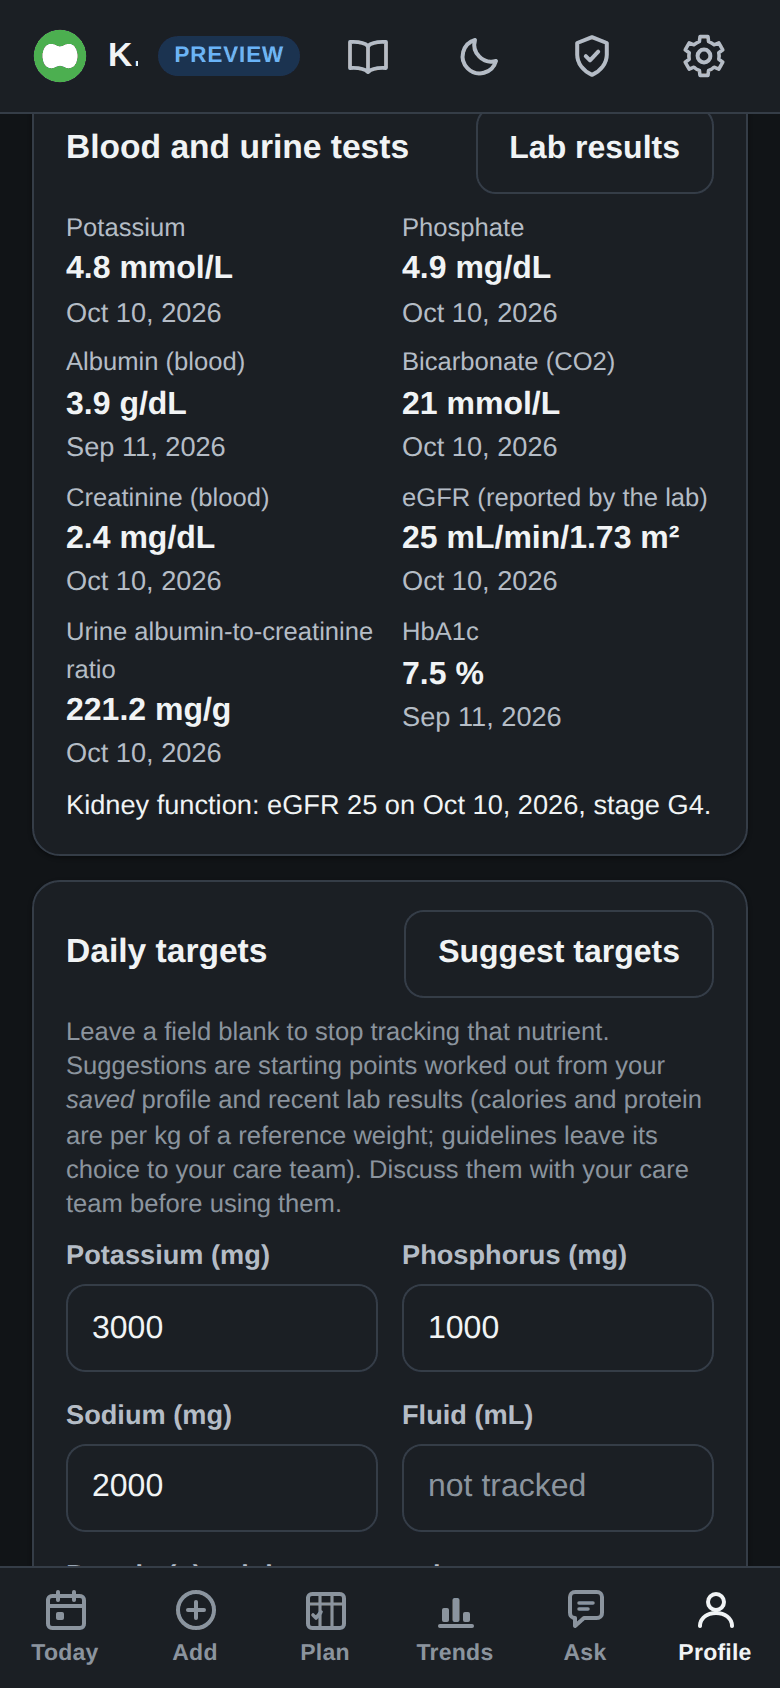
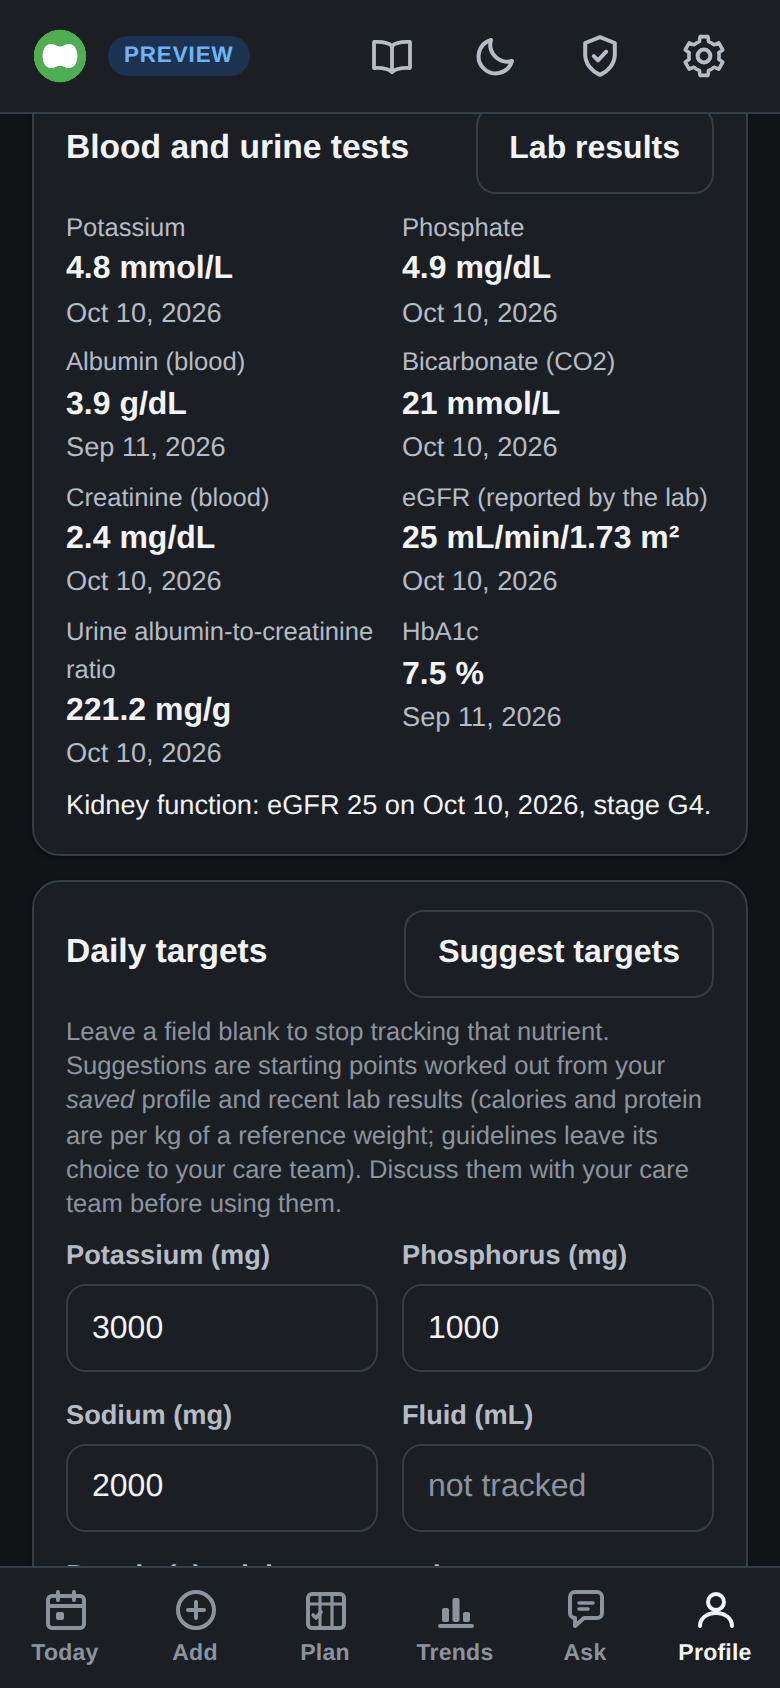
WIP(visual-qa): links inside a sentence, warnings in sheets; README screenshots taken again
Claude-Session: https://claude.ai/code/session_01GAjMcLnXyn3asCMuzVpjQG

diff --git a/app/static/css/touch.css b/app/static/css/touch.css
@@ -13,7 +13,7 @@
      instead of being pushed to the right edge. */
   .learn-more { display: inline-block; box-sizing: border-box; min-height: var(--tap); padding: 12px 0; }
   /* After a warning or a flag the link takes its own line: inline, its 44 px box would push the lines of the text above it apart. */
-  .alert .learn-more, .body-flag .learn-more, .sym-flag .learn-more { display: block; width: fit-content; margin-top: 0; }
+  .alert .learn-more, .warning .learn-more, .body-flag .learn-more, .sym-flag .learn-more { display: block; width: fit-content; margin-top: 0; }
   .details-card > summary, .inline-details > summary { min-height: var(--tap); display: flex; align-items: center; padding: 4px 0; }
   .check input { margin-top: 12px; }
   .check .check-text { padding-top: 11px; }

diff --git a/app/static/js/views/guidance.js b/app/static/js/views/guidance.js
@@ -204,7 +204,7 @@
     }
     const saved = savedText(targets.profile_updated_at);
     const lead = saved ? `Using the targets in your profile, saved ${saved}` : 'Using the targets in your profile';
-    const open = linkBtn('Check them in Profile', () => { if (beforeLeave) beforeLeave(); router.show('profile'); });
+    const open = linkBtn('Check them in Profile', () => { if (beforeLeave) beforeLeave(); router.show('profile'); }, { class: 'link-btn inline' }); // in the sentence, so not a 44 px box
     return h('p', { class: 'hint g-targets tabular' }, `${lead}${parts.length ? `: ${parts.join(' · ')}.` : '.'} `, open);
   }
   function timeText(d) { return d.toLocaleTimeString('en-US', { hour: 'numeric', minute: '2-digit' }); }

diff --git a/app/static/css/settings.css b/app/static/css/settings.css
@@ -128,3 +128,5 @@
 .import-title { margin: 0; font-size: 1rem; }
 .import-title:focus { outline: none; }
 .import-sub { font-weight: 600; }
+/* "How to make the shortcut" opens a sentence: inline, so a 44 px box does not push its lines apart (as in the Ask answers). */
+#set-push-recipe .learn-more { display: inline; min-height: 0; margin: 0; padding: 0; }

diff --git a/tests/test_layout_ui.py b/tests/test_layout_ui.py
@@ -88,8 +88,10 @@ def test_a_handbook_link_stays_at_the_end_of_its_words_and_beside_its_arrow() ->
     declarations = rule(phone, ".learn-more")
     assert "display: inline-block" in declarations and "min-height: var(--tap)" in declarations
     assert "inline-flex" not in declarations
-    own_line = rule(phone, ".alert .learn-more, .body-flag .learn-more, .sym-flag .learn-more")
+    own_line = rule(phone, ".alert .learn-more, .warning .learn-more, .body-flag .learn-more, .sym-flag .learn-more")
     assert "display: block" in own_line and "width: fit-content" in own_line
+    inline = rule(SETTINGS_CSS, "#set-push-recipe .learn-more")  # "How to make the shortcut — the handbook has the steps ..."
+    assert "display: inline" in inline and "min-height: 0" in inline
     # the arrow is joined to the last word by a no-break space
     assert r'content: "\00a0\2197"' in BASE and r'content: " \2197"' not in BASE
 
@@ -144,6 +146,8 @@ def test_a_link_inside_a_sentence_is_an_inline_link_not_a_44_px_box() -> None:
     assert "class: 'link-btn inline'" in TODAY_JS.split("profile-choose-note")[1].split("'Choose them in Profile'")[0]
     assert "class: 'link-btn inline', type: 'button', id: 'body-open-settings'" in BODY_JS
     assert "display: inline" in block(PROFILE_CSS, "@media (pointer: coarse), (max-width: 719.98px) {\n  .why > summary")
+    guidance = read("js", "views", "guidance.js")  # "Using the targets in your profile, saved ...: potassium 3,000 mg ... Check them in Profile"
+    assert re.search(r"linkBtn\('Check them in Profile'.*\{ class: 'link-btn inline' \}\)", guidance)
 
 
 def test_two_boxes_side_by_side_line_up_in_settings_too() -> None:

diff --git a/docs/dev/progress/visual-qa.md b/docs/dev/progress/visual-qa.md
@@ -1,17 +1,18 @@
-# visual-qa: a look at every screen (Status: in progress)
+# visual-qa: a look at every screen (Status: in progress, checks running)
 
 Task: build the demo, drive it with Playwright, look at every screen at 375x812 and 1280x800 in light and dark, fix the small
-layout bugs, report the rest. Screenshots stay outside the repository.
+layout bugs, report the rest. Screenshots stay outside the repository (the four README ones are the exception: see below).
 
 ## How to reproduce
 
 * Build: `python scripts/build_preview.py --pages <tmpdir>`, serve it (`python -m http.server` in that folder, or the helpers in
   `tools/e2e/readme_shots.py`), drive it with Playwright (`executable_path=khserver.chromium_executable()`, `--no-sandbox`).
-* My scratch scripts and screenshots are in the session scratchpad (`.../scratchpad/vq/*.py`, `.../scratchpad/vqshots*/`). They are
+* My scratch scripts and screenshots are in the session scratchpad (`.../scratchpad/vq/*.py`, `.../scratchpad/final/`). They are
   not in the repository. The audit script flags sideways scroll, text over text, controls over controls, clipped text and SVG text
-  that overlaps.
-* The checks that stay: `tests/test_layout_ui.py` (source checks) and probes 7 and 8 in `tools/e2e/sandbox.py` (header at 19
-  widths, Plan badges).
+  that overlaps; it reports false positives where a sheet body scrolls under its header and footer.
+* The checks that stay: `tests/test_layout_ui.py` (source checks) and probes 7 and 8 in `tools/e2e/sandbox.py` (the header at 19
+  widths with every optional part on and off, the Plan week's badges). Run against the build before the fixes, the two probes
+  report the cut name, the overlaps and the sideways scroll; against the fixed build they report nothing.
 
 ## Found and fixed
 
@@ -19,26 +20,39 @@ layout bugs, report the rest. Screenshots stay outside the repository.
   aloud); the logo and pill keep their room. `base.css`.
 * Header, 720-880 px: with the Preview pill, the admin shield and the Ask tab the six tab words and four icons ran past the window
   (the page scrolled sideways). Only the open tab keeps its word there. `base.css`.
-* Header, 960 px and wider: the Preview pill sat under the Today tab (same cause). Fixed by the same rules.
+* Header, 960 px and wider: the name was cut to "K..." next to the pill; the pill sat under the Today tab around 820 px. Same rules.
 * Header: the offline badge in its long form pushed the gear off the page below 1000 px. `device.css`.
 * Plan week, desktop: the TODAY badge stuck out of its day card. `plan.css`.
 * Warnings and flags on a phone: the 44 px handbook link spread the lines of the text above it apart; now it has its own line.
   Its arrow no longer jumps to the right edge when the link wraps (inline-block, no-break space before the arrow). `touch.css`,
   `base.css`.
-* Blood pressure sheet: the top and bottom number boxes sat at different heights; "How to measure" spread its sentence. `body.css`,
-  `index.html`.
-* Copy a day: the Include select showed "Eaten and planne"; Lab results: the note box showed "e.g. before dialys". Both take the
-  whole row on a phone. `base.css`, `index.html`.
+* Blood pressure sheet, Settings goal, Admin invite: two boxes side by side sat at different heights when one label wrapped.
+  "How to measure" spread its sentence. `base.css` (`align-end`), `body.css`, `index.html`, `body.js`, `settings.js`.
+* Copy a day ("Eaten and planne") and Lab results ("e.g. before dialys"): the box takes the whole row on a phone. `span-2-narrow`.
 * Lab results: the two handbook links were joined by a dot that was left at a line end; now a wrapping row. `labs.js`, `labs.css`.
-* Settings: Export / Keep my data buttons, and Sign out everywhere else, touched the element above them. `settings.css`.
+* Lab results import review: the date was beside a short value and above a long one; on a phone it is always above. `labs.css`.
+* "Import from a patient portal file (C-CDA .xml)": broke at the hyphen on a phone. A no-break span. `index.html`.
+* Settings: Export / Keep my data buttons and Sign out everywhere else touched the element above them. `settings.css`.
+* Trends with no targets: the message card had no padding (`.empty-state` came after `.card`). `today.css`.
+* Today with an empty log: two links inside a sentence were 44 px boxes that spread their lines apart; now inline. `today.js`, `body.js`.
+* What fits now, "Meals that fit": a long chip name was cut at one line; two lines now. `guidance.css`.
 
 ## Left, with reasons
 
-* What fits now, "Meals that fit" chips: a long chip name is cut with an ellipsis ("Your usual dinner: egg white, bread, bel...").
-  The chip is a button; the full name is not shown anywhere else on the phone. Not changed: needs a design choice.
-* Admin: an input that shows a long value (the Open Food Facts contact URL) cuts it inside the box. Normal for an input.
+* Header, phone, admin or Preview: the app name is hidden (logo only, and the pill in the demo). With the four icons and the pill
+  there is no room for a 128 px name. A decision for a person: a smaller pill, or moving the Learn link into Settings, would free it.
+* Profile, Daily targets (and About you): in two-column rows, boxes sit at different heights when one label wraps. The rows have
+  hints under the box, so `align-items: end` does not fit; a CSS subgrid worked in a try but crowded two hint paragraphs together
+  (screenshot in the scratchpad). Left as it is.
+* Admin: an input that shows a long value (the Open Food Facts contact address) cuts it inside the box. Normal for an input.
 * Disabled primary buttons in dark mode (Use this plan, Keep my data in this browser) are dim by design.
+* A malformed C-CDA file makes Chromium draw an error document whose inline styles the CSP refuses: two console errors that
+  `tools/e2e/regress.py` already expects.
+
+## Checks
+
+See the report. README screenshots: taken again with `tools/e2e/readme_shots.py` (they showed the cut name and the spread lines).
 
 ## Next
 
-Sheets and dialogs after the fixes (a second look), the README screenshots are unchanged, CHANGELOG, final checks.
+README screenshots, full pytest, then mark complete.

diff --git a/CHANGELOG.md b/CHANGELOG.md
@@ -11,7 +11,8 @@ the API. Security fixes are released as patch versions of the newest minor versi
 
 * **Tidier screens.** We looked at every screen, on a phone and on a computer, in light and dark, and fixed what looked wrong.
   The top bar shows the app's name whole or not at all, never cut to "K…", and it no longer runs past the edge of a narrow window.
-  A handbook link under a warning no longer pushes the lines above it apart, and its arrow stays with the last word. On the blood
+  A handbook link under a warning no longer pushes the lines above it apart, and its arrow stays with the last word; the same goes
+  for the links inside a sentence ("Check them in Profile", "How to make the shortcut"). On the blood
   pressure sheet the two number boxes line up. The **Include** box in Copy a day and the **Note** box in Lab results take the whole
   row on a phone, so their words are not cut off. In Lab results every row puts the date above the value. A long name under
   **Meals that fit** wraps to two lines. On Trends, the message about missing targets has its padding back. In Settings the buttons
